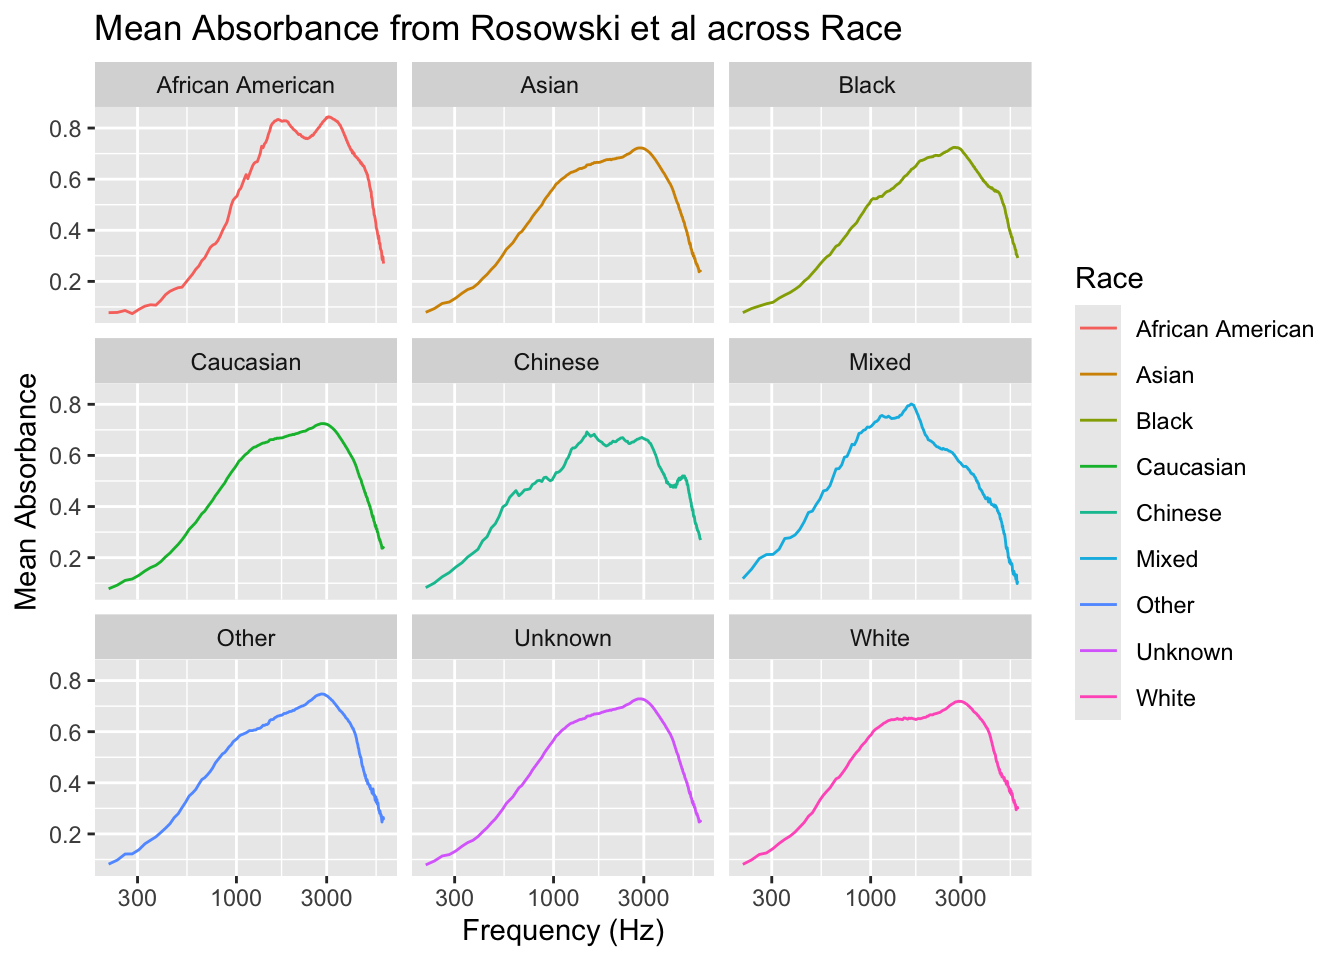
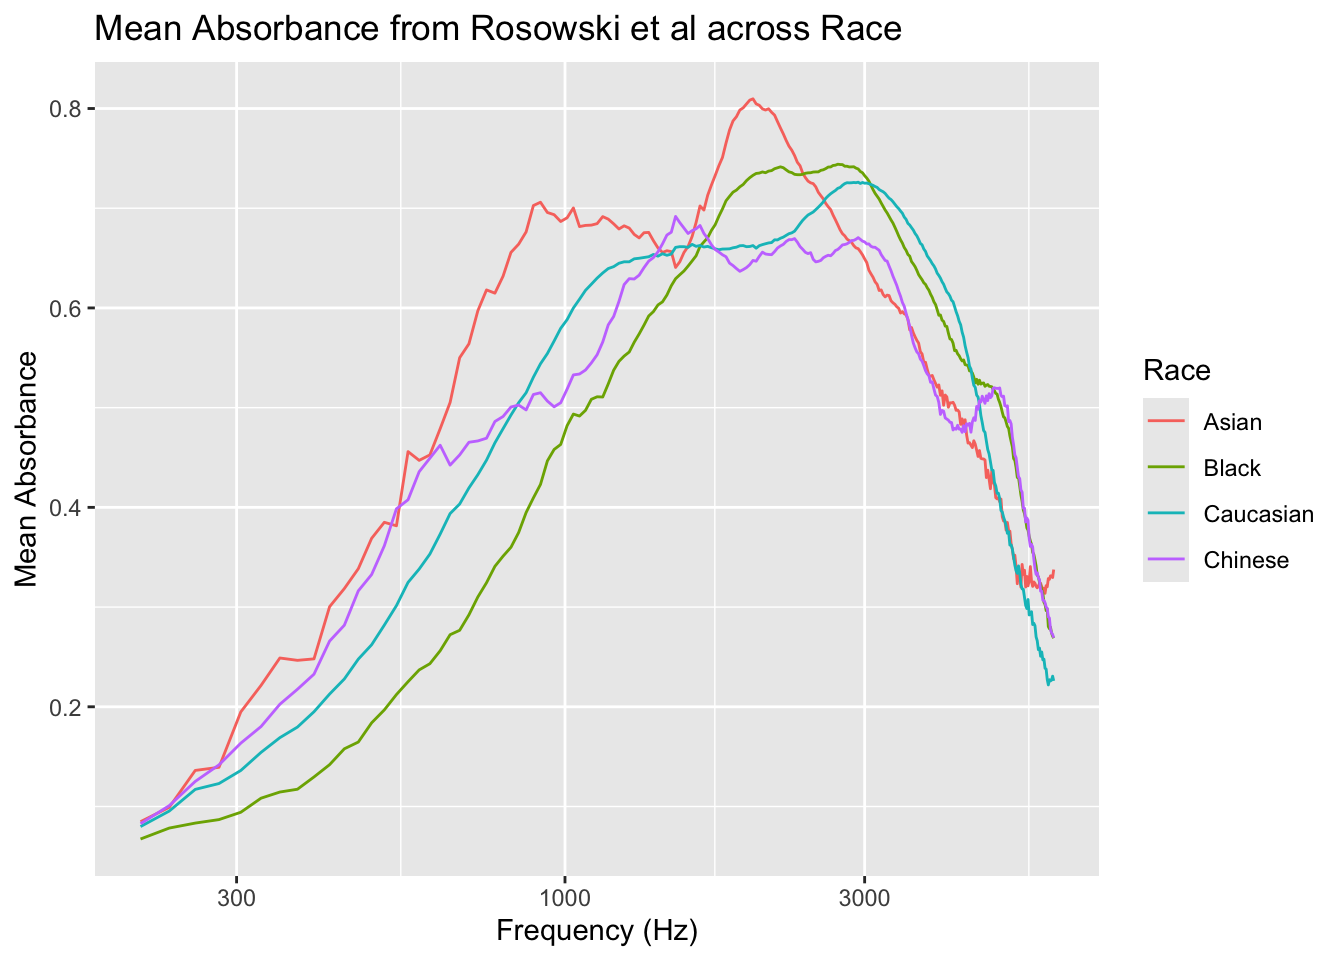
needed to filter by both tables.

diff --git a/docs/sql_audio.html b/docs/sql_audio.html
@@ -1041,22 +1041,22 @@ pre > code.sourceCode > span > a:first-child::before { text-decoration: underlin
 <div class="sourceCode cell-code" id="cb9"><pre class="sourceCode sql code-with-copy"><code class="sourceCode sql"><span id="cb9-1"><a href="#cb9-1" aria-hidden="true" tabindex="-1"></a><span class="kw">SELECT</span> Frequency, Race,</span>
 <span id="cb9-2"><a href="#cb9-2" aria-hidden="true" tabindex="-1"></a>    <span class="fu">AVG</span>(Absorbance) <span class="kw">AS</span> ave_absorbance</span>
 <span id="cb9-3"><a href="#cb9-3" aria-hidden="true" tabindex="-1"></a><span class="kw">FROM</span> Subjects <span class="kw">AS</span> s</span>
-<span id="cb9-4"><a href="#cb9-4" aria-hidden="true" tabindex="-1"></a><span class="kw">RIGHT</span> <span class="kw">JOIN</span> Measurements <span class="kw">AS</span> m <span class="kw">ON</span> m.SubjectNumber <span class="op">=</span> s.SubjectNumber </span>
-<span id="cb9-5"><a href="#cb9-5" aria-hidden="true" tabindex="-1"></a><span class="kw">WHERE</span> m.<span class="kw">Identifier</span> <span class="op">=</span> <span class="ot">"Rosowski_2012"</span> <span class="kw">AND</span> Frequency <span class="op">&gt;</span> <span class="dv">200</span> <span class="kw">AND</span> Frequency <span class="op">&lt;</span> <span class="dv">8000</span></span>
-<span id="cb9-6"><a href="#cb9-6" aria-hidden="true" tabindex="-1"></a><span class="kw">GROUP</span> <span class="kw">BY</span> Race, Frequency</span></code><button title="Copy to Clipboard" class="code-copy-button"><i class="bi"></i></button></pre></div>
+<span id="cb9-4"><a href="#cb9-4" aria-hidden="true" tabindex="-1"></a><span class="kw">INNER</span> <span class="kw">JOIN</span> Measurements <span class="kw">AS</span> m <span class="kw">ON</span> m.SubjectNumber <span class="op">=</span> s.SubjectNumber</span>
+<span id="cb9-5"><a href="#cb9-5" aria-hidden="true" tabindex="-1"></a><span class="kw">WHERE</span> m.<span class="kw">Identifier</span> <span class="op">=</span> <span class="ot">"Rosowski_2012"</span> <span class="kw">AND</span> s.<span class="kw">Identifier</span> <span class="op">=</span> <span class="ot">"Rosowski_2012"</span> </span>
+<span id="cb9-6"><a href="#cb9-6" aria-hidden="true" tabindex="-1"></a><span class="kw">AND</span> Frequency <span class="op">&gt;</span> <span class="dv">200</span> <span class="kw">AND</span> Frequency <span class="op">&lt;</span> <span class="dv">8000</span></span>
+<span id="cb9-7"><a href="#cb9-7" aria-hidden="true" tabindex="-1"></a><span class="kw">GROUP</span> <span class="kw">BY</span> Race, Frequency;</span></code><button title="Copy to Clipboard" class="code-copy-button"><i class="bi"></i></button></pre></div>
 </div>
 <div class="cell">
 <div class="sourceCode cell-code" id="cb10"><pre class="sourceCode r code-with-copy"><code class="sourceCode r"><span id="cb10-1"><a href="#cb10-1" aria-hidden="true" tabindex="-1"></a>q2_graph <span class="sc">|&gt;</span></span>
-<span id="cb10-2"><a href="#cb10-2" aria-hidden="true" tabindex="-1"></a>  <span class="fu">ggplot</span>(<span class="fu">aes</span> (<span class="at">x =</span> Frequency, <span class="at">y =</span> ave_absorbance,</span>
-<span id="cb10-3"><a href="#cb10-3" aria-hidden="true" tabindex="-1"></a>              <span class="at">color =</span> Race,</span>
-<span id="cb10-4"><a href="#cb10-4" aria-hidden="true" tabindex="-1"></a>              <span class="at">group =</span> Race)) <span class="sc">+</span></span>
-<span id="cb10-5"><a href="#cb10-5" aria-hidden="true" tabindex="-1"></a>  <span class="fu">geom_line</span>() <span class="sc">+</span></span>
-<span id="cb10-6"><a href="#cb10-6" aria-hidden="true" tabindex="-1"></a>  <span class="fu">facet_wrap</span>(<span class="sc">~</span> Race) <span class="sc">+</span> </span>
-<span id="cb10-7"><a href="#cb10-7" aria-hidden="true" tabindex="-1"></a>   <span class="fu">labs</span>(</span>
-<span id="cb10-8"><a href="#cb10-8" aria-hidden="true" tabindex="-1"></a>    <span class="at">x =</span> <span class="st">"Frequency (Hz)"</span>,</span>
-<span id="cb10-9"><a href="#cb10-9" aria-hidden="true" tabindex="-1"></a>    <span class="at">y =</span> <span class="st">"Mean Absorbance"</span>,</span>
-<span id="cb10-10"><a href="#cb10-10" aria-hidden="true" tabindex="-1"></a>    <span class="at">title =</span> <span class="st">"Mean Absorbance from Rosowski et al across Race"</span>) <span class="sc">+</span></span>
-<span id="cb10-11"><a href="#cb10-11" aria-hidden="true" tabindex="-1"></a>  <span class="fu">scale_x_log10</span>()</span></code><button title="Copy to Clipboard" class="code-copy-button"><i class="bi"></i></button></pre></div>
+<span id="cb10-2"><a href="#cb10-2" aria-hidden="true" tabindex="-1"></a>  <span class="fu">ggplot</span>(<span class="fu">aes</span>(<span class="at">x =</span> Frequency, <span class="at">y =</span> ave_absorbance, <span class="at">color =</span> Race, <span class="at">group =</span> Race)) <span class="sc">+</span></span>
+<span id="cb10-3"><a href="#cb10-3" aria-hidden="true" tabindex="-1"></a>  <span class="fu">geom_line</span>() <span class="sc">+</span></span>
+<span id="cb10-4"><a href="#cb10-4" aria-hidden="true" tabindex="-1"></a>  <span class="fu">labs</span>(</span>
+<span id="cb10-5"><a href="#cb10-5" aria-hidden="true" tabindex="-1"></a>    <span class="at">x =</span> <span class="st">"Frequency (Hz)"</span>,</span>
+<span id="cb10-6"><a href="#cb10-6" aria-hidden="true" tabindex="-1"></a>    <span class="at">y =</span> <span class="st">"Mean Absorbance"</span>,</span>
+<span id="cb10-7"><a href="#cb10-7" aria-hidden="true" tabindex="-1"></a>    <span class="at">title =</span> <span class="st">"Mean Absorbance from Rosowski et al across Race"</span>,</span>
+<span id="cb10-8"><a href="#cb10-8" aria-hidden="true" tabindex="-1"></a>    <span class="at">color =</span> <span class="st">"Race"</span></span>
+<span id="cb10-9"><a href="#cb10-9" aria-hidden="true" tabindex="-1"></a>  ) <span class="sc">+</span></span>
+<span id="cb10-10"><a href="#cb10-10" aria-hidden="true" tabindex="-1"></a>  <span class="fu">scale_x_log10</span>()</span></code><button title="Copy to Clipboard" class="code-copy-button"><i class="bi"></i></button></pre></div>
 <div class="cell-output-display">
 <div>
 <figure class="figure">
@@ -1065,7 +1065,7 @@ pre > code.sourceCode > span > a:first-child::before { text-decoration: underlin
 </div>
 </div>
 </div>
-<p><em>Because data was identical across races, I used facet_wrap to isolate the graphs by Race. Interestingly, Rosowski (2012) separated “Chinese” from “Asian” and had very little racial diversity overall. The graphs convey that after a strong positive correlation, average absorbance rapidly dropped after Frequency of 3000.</em></p>
+<p><em>Interestingly, Rosowski (2012) separated “Chinese” from “Asian” and had very little racial diversity overall. The graphs convey that after a strong positive correlation, average absorbance rapidly dropped after Frequency of 3000.</em></p>
 <p>For Question 1, it was important that I aggregate data for specific studies with Identifier and that I filter within the frequency range of 80000 &gt; Frequency &gt; 200. For Question 2,I wanted to explore the race variable. After determining that Rosowski (2012) enrolled multiple race groups, I joined the relevant variables using the “Rosowksi_2012” Identifier. I then graphed the data, grouping by race.</p>
 <p>Article Citations:</p>
 <p>Voss SE. Resource Review. Ear Hear. 2019 Nov/Dec;40(6):1481. doi: 10.1097/AUD.0000000000000790. PMID: 31651606; PMCID: PMC7093226.</p>
